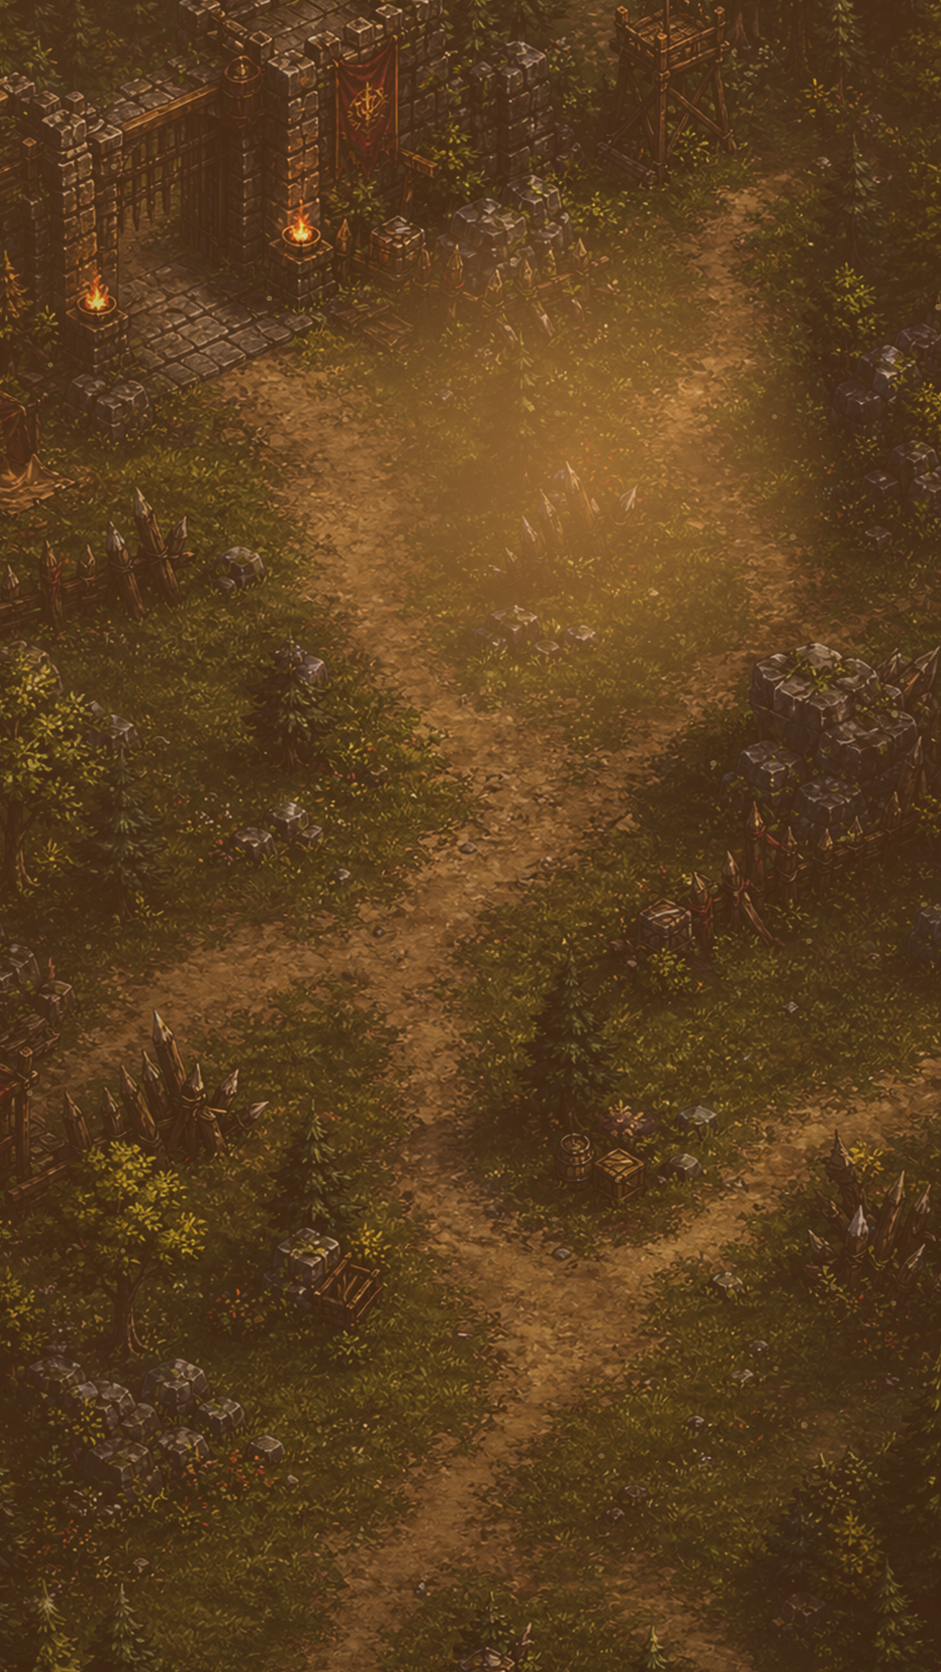
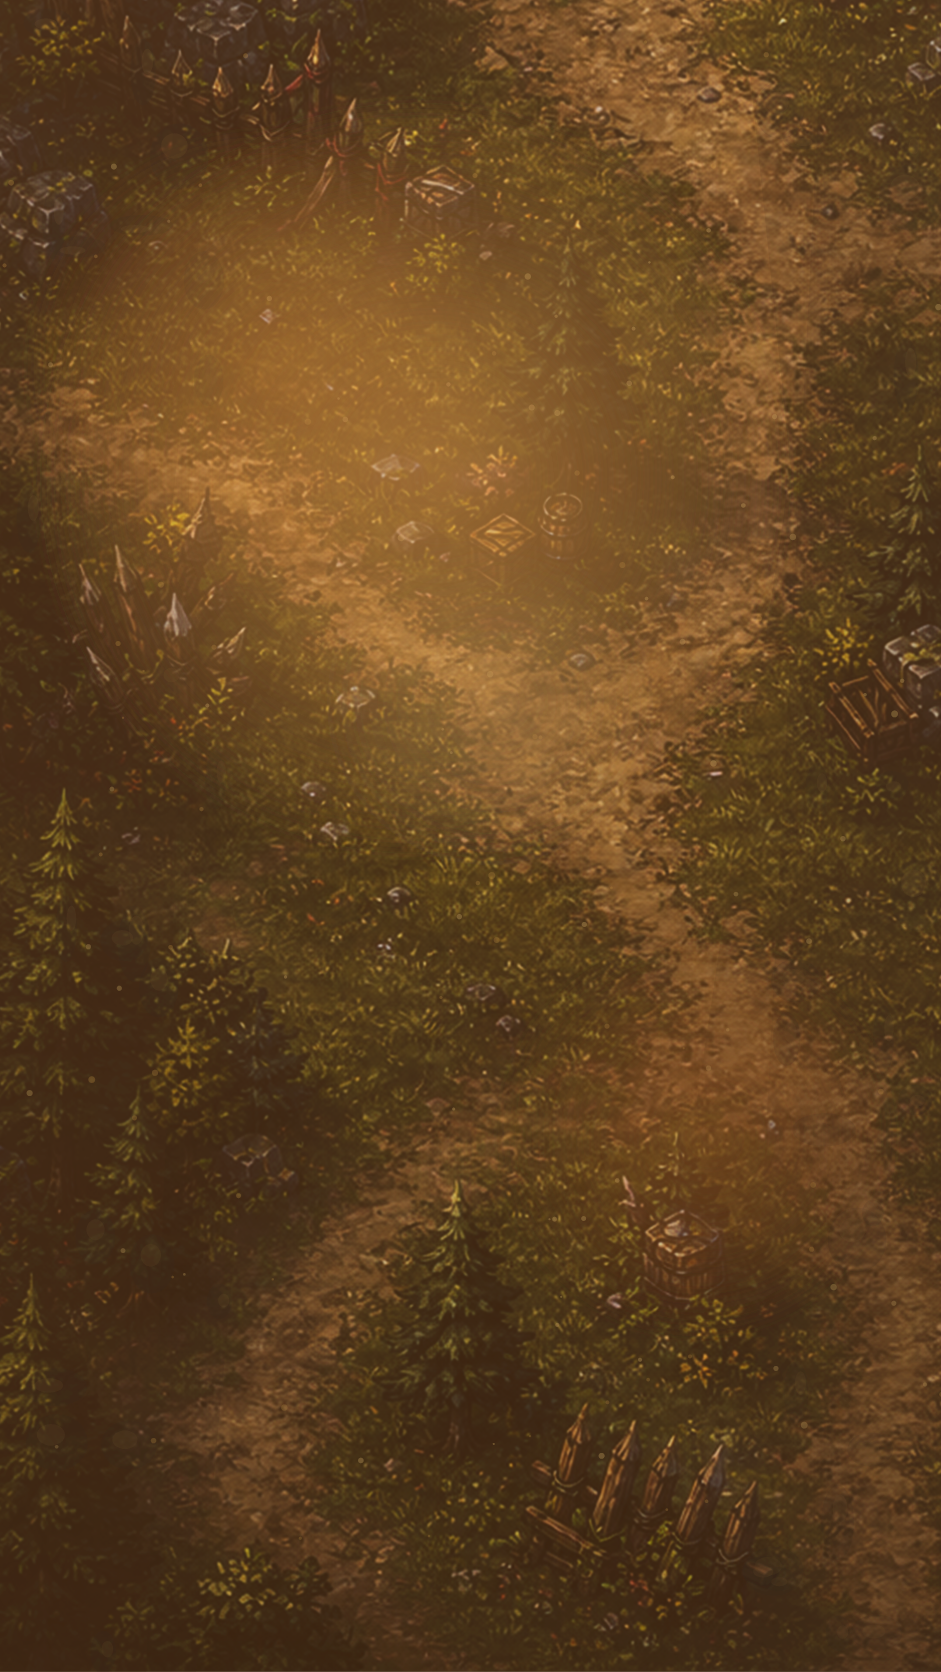
Differentiate stage two canyon

diff --git a/src/App.jsx b/src/App.jsx
@@ -50,7 +50,7 @@ import { isNativeCapacitorRuntime } from "./engine/runtime.js";
 import "./index.css";
 
 const SAVE_KEY = "cheonsu_v01_save";
-const SAVE_VERSION = "1.99.110";
+const SAVE_VERSION = "1.99.111";
 const SAVE_BACKUP_KEY = "cheonsu_v01_auto_backup";
 const SAVE_PREVIOUS_KEY = "cheonsu_v01_previous_backup";
 const FEEDBACK_KEY = "cheonsu_v01_feedback_reports";
@@ -1971,6 +1971,7 @@ function isLargeMapAllyZone(x, y, width, height) {
 const STAGE_LAYOUT_KINDS = [
   "frontierBreach",
   "forestPass",
+  "canyonAmbush",
   "canyonFork",
   "ridgeSwitchback",
   "fortressGate",
@@ -2013,7 +2014,10 @@ function getStageLayoutKind(stage) {
   if (theme.id === "burning") return pickStageLayout(stageId, ["burningArc", "burnScar", "frontierBreach"]);
   if (theme.id === "frozen") return pickStageLayout(stageId, ["frozenRiver", "iceBridge", "ridgeSwitchback"]);
   if (theme.id === "marsh") return pickStageLayout(stageId, ["marshBridge", "marshIslands", "splitFlank"]);
-  if (theme.id === "canyon") return pickStageLayout(stageId, ["canyonFork", "ridgeSwitchback", "splitFlank"]);
+  if (theme.id === "canyon") {
+    if (stageId === 2) return "canyonAmbush";
+    return pickStageLayout(stageId, ["canyonFork", "ridgeSwitchback", "splitFlank"]);
+  }
 
   return STAGE_LAYOUT_KINDS[(stageId - 1) % STAGE_LAYOUT_KINDS.length];
 }
@@ -2075,6 +2079,18 @@ function getStageSignatureTile({ stage, theme, tile, x, y, width, height, seed }
       if (y === centerY && x >= 2 && x <= width - 3) return "road";
       if (!lowerField && (x <= 2 || x >= width - 3) && seed % 4 !== 0) return getThemeBlockTile(theme, seed);
       if (seed % 13 === 0) return "hill";
+      break;
+    }
+    case "canyonAmbush": {
+      const ravineX = Math.floor(width * 0.44 + Math.sin(y * 0.85) * 1.4);
+      const upperFork = upperField && y >= 2 && (Math.abs(x - (ravineX - 3)) <= 1 || Math.abs(x - (ravineX + 3)) <= 1);
+      const centerPass = Math.abs(x - ravineX) <= 1 && y >= 1 && y <= height - 3;
+      const ambushShelf = (y === centerY - 2 || y === centerY + 1) && x >= 2 && x <= width - 3;
+      if (centerPass || upperFork || ambushShelf) return "road";
+      if (x <= 2 || x >= width - 3) return seed % 5 === 0 ? "hill" : "wall";
+      if (!lowerField && seed % 6 === 0) return "trap";
+      if (!lowerField && seed % 4 === 0) return "hill";
+      if (seed % 13 === 0) return "forest";
       break;
     }
     case "ridgeSwitchback": {

diff --git a/public/sw.js b/public/sw.js
@@ -1,4 +1,4 @@
-const CACHE_NAME = "cheonsu-v1-99-110";
+const CACHE_NAME = "cheonsu-v1-99-111";
 const FINAL_STAGE_MAPS = Array.from(
   { length: 30 },
   (_, index) => `/maps/concept/stage_${index + 1}_frontier_final.png`

diff --git a/public/service-worker.js b/public/service-worker.js
@@ -1,4 +1,4 @@
-const CACHE_VERSION = "cheonsu-v199110";
+const CACHE_VERSION = "cheonsu-v199111";
 const APP_SHELL_CACHE = `${CACHE_VERSION}-app-shell`;
 const RUNTIME_CACHE = `${CACHE_VERSION}-runtime`;
 
